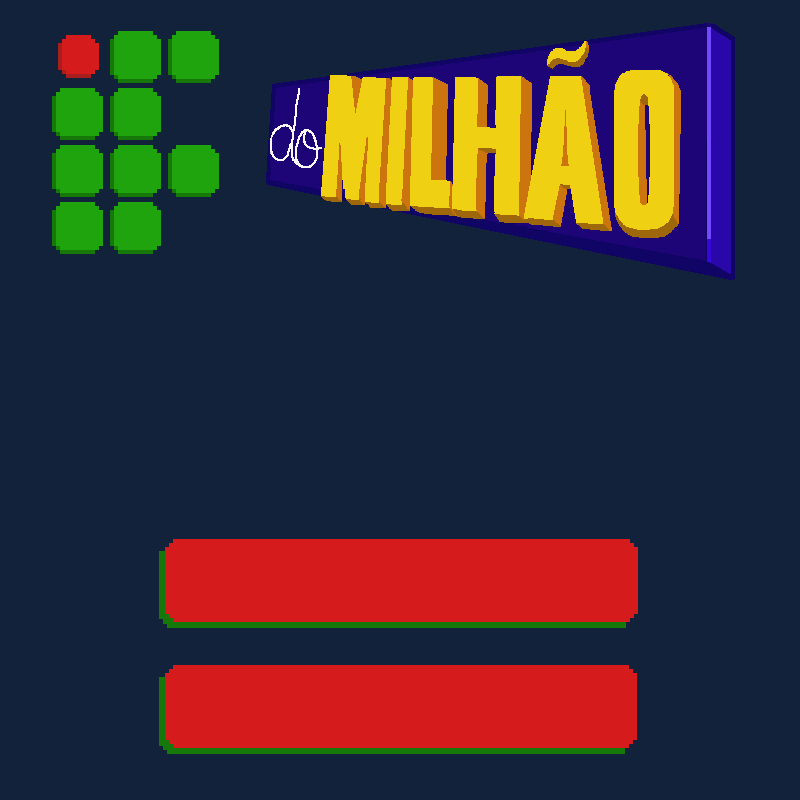
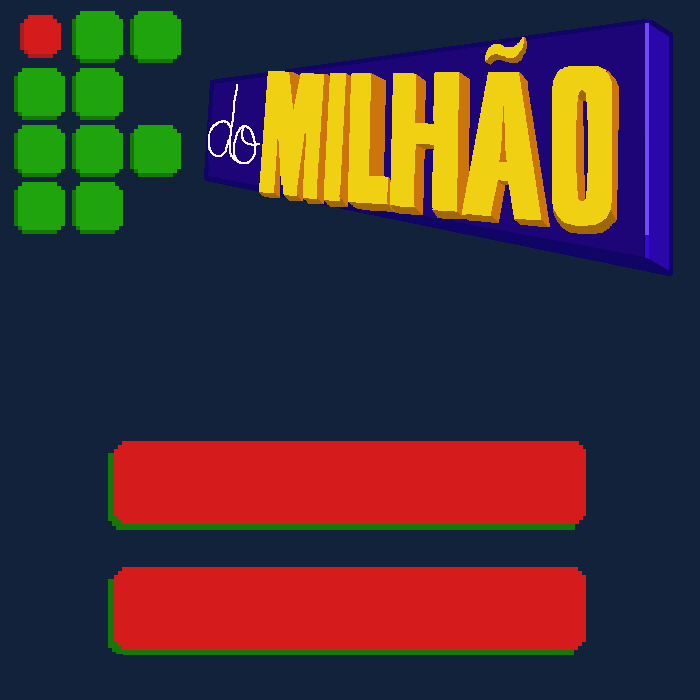
Update

Changed region(s): [[0.0, 0.0, 0.96, 0.39], [0.15, 0.63, 0.84, 0.96]]

diff --git a/ifsc_do_milhao/ifsc_do_milhao.c b/ifsc_do_milhao/ifsc_do_milhao.c
@@ -9,14 +9,17 @@
 #include "biblioteca.h"
 
 //GLOBALS==============================
-const int WIDTH = 800;
-const int HEIGHT = 800;
+const int WIDTH = 700;
+const int HEIGHT = 700;
+const char QUEST[] = "questions.csv";
+const char ALT[] = "alternatives.csv";
+FILE  *fileques;
+FILE  *filealt;
 enum KEYS {SPACE, ESC, NUM1, NUM2, NUM3, P, A};
 enum STATE {MENU, CHOOSE_CHARACTER, CHOOSE_THEMATIC, PLAYING, GAMEOVER, WON};
 
 //prototypes
 void ChooseThematic(int which); //modalidade das perguntas
-int CheckMouse(ALLEGRO_EVENT_QUEUE *event_queue, ALLEGRO_BITMAP *op1, ALLEGRO_BITMAP *op2, ALLEGRO_BITMAP *op3); //checa a posição do mouse sobre as opções na tela e o clique sobre o botão de sair
 
 void GameInitiation(int theme); //iniciação da rodada
 int NewQuestion(int theme); //gera uma pergunta nova
@@ -44,6 +47,9 @@ int main(void) {
 	bool FirstTime = true;
 	bool keys[7] = {false, false, false, false, false, false, false};
 	int state = MENU; //inicia no menu
+	//Variáveis para leitura arquivos csv
+	char titleques[100], QuestID[60], Questions[60];
+	char titlealt[100], AltID[180], Alternatives[180];
 
 	int thematic; //temica escolhida
 	int playr; //jogador escolhido
@@ -64,12 +70,11 @@ int main(void) {
 	ALLEGRO_EVENT_QUEUE *event_queue = NULL;
 	ALLEGRO_TIMER *timer = NULL;
 	ALLEGRO_FONT *font = NULL;
-	ALLEGRO_BITMAP *option1 = NULL;
-	ALLEGRO_BITMAP *option2 = NULL;
-	ALLEGRO_BITMAP *option3 = NULL;
 
 	//Allegro image variables
 	ALLEGRO_BITMAP *menuimage = NULL;
+	ALLEGRO_BITMAP *charactermenu = NULL;
+	ALLEGRO_BITMAP *thematicmenu = NULL;
 
 	//Allegro audio variables
 	ALLEGRO_SAMPLE *game_theme = NULL;
@@ -119,7 +124,6 @@ int main(void) {
     }
 
 	al_init_primitives_addon();
-	al_install_mouse();
 	al_init_font_addon();
 	al_init_ttf_addon();
 	al_init_image_addon();
@@ -127,26 +131,11 @@ int main(void) {
 	// Configura o título da janela
     al_set_window_title(display, "IFSC do Milhão");
 
-	// Torna apto o uso de mouse na aplicação
-    if (!al_install_mouse()){
-        Error("Falha ao inicializar o mouse");
-        al_destroy_display(display);
-        return -1;
-    }
-
-	// Atribui o cursor padrão do sistema para ser usado
-    if (!al_set_system_mouse_cursor(display, ALLEGRO_SYSTEM_MOUSE_CURSOR_DEFAULT)){
-        Error("Falha ao atribuir ponteiro do mouse");
-        al_destroy_display(display);
-        return -1;
-    }
-
 	//Carrega os arquivos utilizados
     menuimage = al_load_bitmap("/Users/pamela_fialho/Documents/GitHub/ifsc_do_milhao/ifsc_do_milhao/menu_image.png"); //carrega a imagem do menu
-    option1 = al_create_bitmap(WIDTH/2, HEIGHT/2+25);	// Alocamos a primeira opção de resposta/escolha
-    option2 = al_create_bitmap(WIDTH/2, HEIGHT/2+150);
-    option3 = al_create_bitmap(WIDTH/2, HEIGHT/2+275);
-	font = al_load_font("/Users/pamela_fialho/Documents/GitHub/Listas_de_Exercicios_Programacao_em_Linguagem_C/atividade_expansao_dos_cometas/arial.ttf", 18, 0);
+	charactermenu = al_load_bitmap("/Users/pamela_fialho/Documents/GitHub/ifsc_do_milhao/ifsc_do_milhao/menu_character.png"); //carrega a imagem do menu
+	thematicmenu = al_load_bitmap("/Users/pamela_fialho/Documents/GitHub/ifsc_do_milhao/ifsc_do_milhao/menu_thematic.png"); //carrega a imagem do menu
+	font = al_load_font("/Users/pamela_fialho/Documents/GitHub/Listas_de_Exercicios_Programacao_em_Linguagem_C/atividade_expansao_dos_cometas/arial.ttf", 20, 0);
 	//Carrega o Audio
 	al_reserve_samples(2);//Reserva 2 samples, mais do que o suficiente para o que vai ser usado
     game_theme = al_load_sample("Audio/pacman_theme.wav");//carrega o tema do pacman
@@ -233,7 +222,6 @@ int main(void) {
 					playr = 2;
 					ChooseCharacter(&player, playr);
 					state = CHOOSE_THEMATIC;
-
 				if(keys[A])
 					playr = 1;
 					ChooseCharacter(&player, playr);
@@ -278,49 +266,34 @@ int main(void) {
 					al_draw_bitmap(menuimage,0,0,0);
 					//textos
 					//tutorial
-					al_draw_text(font, al_map_rgb(0,0,255), WIDTH/2, 350, ALLEGRO_ALIGN_CENTER, "COMO JOGAR:");
-                	al_draw_text(font, al_map_rgb(255,40,40), WIDTH/2, 220, ALLEGRO_ALIGN_CENTER, "Utilize as teclas do seu computador!");
-                	al_draw_text(font, al_map_rgb(255,255,0), WIDTH/2, 280, ALLEGRO_ALIGN_CENTER, "A escolha da resposta é feita com as teclas 1, 2 e 3");
-                	al_draw_text(font, al_map_rgb(255,255,0), WIDTH/2, 305, ALLEGRO_ALIGN_CENTER, "Você poderá escolher o personagem e a temática das perguntas a seguir");
-                	al_draw_text(font, al_map_rgb(0,255,0), WIDTH/2, 340, ALLEGRO_ALIGN_CENTER, "BOA SORTE!");
-					al_draw_text(font, al_map_rgb(255,40,40), WIDTH/2, 220, ALLEGRO_ALIGN_CENTER, "Pressione ESC a qualquer momento para sair do jogo");
-                	al_draw_text(font, al_map_rgb(255,255,0), WIDTH/2, 280, ALLEGRO_ALIGN_CENTER, "Pressione SPACE para começar a jogar");
-                	al_draw_text(font, al_map_rgb(0,0,255), WIDTH/2, 400, ALLEGRO_ALIGN_CENTER, "DESENVOLVIDO POR: Pamela Fialho e Valter da Silva");
-                	al_draw_text(font, al_map_rgb(0,0,255), WIDTH/2, 550, ALLEGRO_ALIGN_CENTER, "ORIENTADO POR: Professor Fernando Santana Pacheco");
-                	al_draw_text(font, al_map_rgb(255,255,255), WIDTH/2, 670, 0, "TURMA 722 (2017/2)");
+					al_draw_text(font, al_map_rgb(255,255,255), WIDTH/2, 290, ALLEGRO_ALIGN_CENTER, "COMO JOGAR:");
+                	al_draw_text(font, al_map_rgb(255,255,255), WIDTH/2, 320, ALLEGRO_ALIGN_CENTER, "Utilize as teclas do seu computador para fazer as escolhas!");
+                	al_draw_text(font, al_map_rgb(255,255,255), WIDTH/2, 340, ALLEGRO_ALIGN_CENTER, "A escolha da resposta é feita com as teclas 1, 2 e 3");
+                	al_draw_text(font, al_map_rgb(255,255,255), WIDTH/2, 360, ALLEGRO_ALIGN_CENTER, "Você poderá escolher o personagem e a temática das perguntas a seguir");
+                	al_draw_text(font, al_map_rgb(255,255,255), WIDTH/2, 390, ALLEGRO_ALIGN_CENTER, "BOA SORTE!");
+					al_draw_text(font, al_map_rgb(255,255,255), WIDTH/2, 470, ALLEGRO_ALIGN_CENTER, "ESC PARA SAIR DO JOGO");
+                	al_draw_text(font, al_map_rgb(255,255,255), WIDTH/2, 597, ALLEGRO_ALIGN_CENTER, "SPACE PARA COMEÇAR A JOGAR");
             	}
 				if (state == CHOOSE_CHARACTER) {
-					//imagem menu de personagem
-					//escolha com o teclado (A - aluno; P - professor)
+					al_draw_bitmap(charactermenu,0,0,0); //imagem menu de personagem
+					al_draw_text(font, al_map_rgb(255,255,255), WIDTH/2, 470, ALLEGRO_ALIGN_CENTER, "A PARA JOGAR COM ALUNO");
+                	al_draw_text(font, al_map_rgb(255,255,255), WIDTH/2, 597, ALLEGRO_ALIGN_CENTER, "P PARA JOGAR COM PROFESSORA");
 				}
 				if (state == CHOOSE_THEMATIC) {
-					//imagem menu de tematica
-					//escolha com o teclado (1 - x; 2 - y; 3 - todas)
+					al_draw_bitmap(menuimage,0,0,0);
 				}
             	else if (state == PLAYING) {
                 	if(!isGameOver) {
-                    // GameIsOver = CheckColision(Player1, Ghosts, pacman_eatghost);
-                    // CheckIfVulnerable(Player1, Ghosts);
-                    // CheckScore(Player1, Ghosts);
-                    // DrawMap(parede, comida, cafe, seta, seta2);
-                    // DrawPacman(Player1, pacmanfinal, curFrame, frameWidth, frameHeight);
-                    // DrawGhosts(Ghosts, enemy1, enemy2, enemy3, enemy4, timer2);
                     // al_draw_textf(font, al_map_rgb(255,255,255), 760, 5, 0, "PONTOS");
                     // al_draw_textf(font, al_map_rgb(255,255,255), 800, 150, 0, "%d", Player1.Score+Player1.GhostScore);
 					}
                 	else {
-                    // al_play_sample(pacman_death,1,0,1,ALLEGRO_PLAYMODE_ONCE, NULL);
-                    // al_stop_sample_instance(pacman_theme_instance);
-                    // finalScore = Player1.Score + Player1.GhostScore;
-                    FirstTime = 0;
+                    FirstTime = true;
                     state = GAMEOVER;
                 	}
             	}
             	else if (state == GAMEOVER) {
-                	// InitPacman(Player1);
-                	// InitGhosts(Ghosts);
-                	// InitPoseMap();
-                	isGameOver = 0;
+                	isGameOver = true;
                 	al_draw_text(font, al_map_rgb(255,0,0), WIDTH / 2, 200, ALLEGRO_ALIGN_CENTER, "DERROTA");
                 	al_draw_text(font, al_map_rgb(255,255,255), WIDTH / 2, 300, ALLEGRO_ALIGN_CENTER, "pressione ENTER para sair");
                 	al_draw_text(font, al_map_rgb(255,255,255), WIDTH / 2, 350, ALLEGRO_ALIGN_CENTER, "ou");
@@ -355,10 +328,9 @@ int main(void) {
 			al_clear_to_color(al_map_rgb(0,0,0));
 		}
 	}
-    al_destroy_bitmap(option1);
-	al_destroy_bitmap(option2);
-	al_destroy_bitmap(option3);
 	al_destroy_bitmap(menuimage);
+	al_destroy_bitmap(charactermenu);
+	al_destroy_bitmap(thematicmenu);
 	al_destroy_event_queue(event_queue);
 	al_destroy_timer(timer);
 	al_destroy_font(font);
@@ -377,7 +349,12 @@ void GameInitiation(int theme) {
 }
 
 void ChooseCharacter (struct Character *player, int which) {
-	//pergunta qual jogador ele quer ser "professor", "aluno" ou "aleatorio"
+	if (which == 1) {
+		player->ID = STUDENT;
+	}
+	if (which == 2) {
+		player->ID = PROFESSOR;
+	}
 }
 
 void Character(struct Character *player, int charc) { //inicia o personagem
@@ -436,72 +413,6 @@ int NewQuestion(int theme) { //implementar logica para nao repetir pergunta
 		quest = 0;
 	}
 	return quest;
-}
-
-int CheckMouse(ALLEGRO_EVENT_QUEUE *event_queue, ALLEGRO_BITMAP *op1, ALLEGRO_BITMAP *op2, ALLEGRO_BITMAP *op3) { //melhorar usando vetores
-	int result;
-	while (!al_is_event_queue_empty(event_queue)){
-        ALLEGRO_EVENT ev;
-        al_wait_for_event(event_queue, &ev);
-		if (ev.mouse.x >= al_get_bitmap_width(op1) - 150 &&
-        ev.mouse.x <= al_get_bitmap_width(op1) + 150 &&
-    	ev.mouse.y >= al_get_bitmap_height(op1) - 50 &&
-    	ev.mouse.y <= al_get_bitmap_height(op1) + 50){
-            // Colorimos o bitmap correspondente ao retângulo que o cursor está por cima
-        	al_set_target_bitmap(op1);
-			al_clear_to_color(al_map_rgb(0, 255, 0));
-    	}	
-		else {
-			al_clear_to_color(al_map_rgb(255, 255, 255));
-		}
-
-		//Verifica se o cursor está sobre a opção 2
-		if (ev.mouse.x >= al_get_bitmap_width(op2) - 150 &&
-        ev.mouse.x <= al_get_bitmap_width(op2) + 150 &&
-        ev.mouse.y >= al_get_bitmap_height(op2) - 50 &&
-        ev.mouse.y <= al_get_bitmap_height(op2) + 50){
-            // Colorimos o bitmap correspondente ao retângulo que o cursor está por cima
-        	al_set_target_bitmap(op2);
-			al_clear_to_color(al_map_rgb(0, 255, 0));
-        }
-		else {
-			al_clear_to_color(al_map_rgb(255, 255, 255));
-		}
-
-		//Verifica se o cursor está sobre a opção 3
-		if (ev.mouse.x >= al_get_bitmap_width(op3) - 150 &&
-        ev.mouse.x <= al_get_bitmap_width(op3) + 150 &&
-        ev.mouse.y >= al_get_bitmap_height(op3) - 50 &&
-        ev.mouse.y <= al_get_bitmap_height(op3) + 50){
-            // Colorimos o bitmap correspondente ao retângulo que o cursor está por cima
-        	al_set_target_bitmap(op3);
-			al_clear_to_color(al_map_rgb(0, 255, 0));
-        }
-		else {
-			al_clear_to_color(al_map_rgb(255, 255, 255));
-		}
-
-		//se o evento foi um clique do mouse
-		if (ev.mouse.x >= al_get_bitmap_width(op1) - 150 &&
-        ev.mouse.x <= al_get_bitmap_width(op1) + 150 &&
-    	ev.mouse.y >= al_get_bitmap_height(op1) - 50 &&
-    	ev.mouse.y <= al_get_bitmap_height(op1) + 50){
-        	result = 1;
-        }
-		else if (ev.mouse.x >= al_get_bitmap_width(op2) - 150 &&
-        ev.mouse.x <= al_get_bitmap_width(op2) + 150 &&
-    	ev.mouse.y >= al_get_bitmap_height(op2) - 50 &&
-    	ev.mouse.y <= al_get_bitmap_height(op2) + 50){
-        	result = 2;
-        }
-		else if (ev.mouse.x >= al_get_bitmap_width(op3) - 150 &&
-        ev.mouse.x <= al_get_bitmap_width(op3) + 150 &&
-    	ev.mouse.y >= al_get_bitmap_height(op3) - 50 &&
-    	ev.mouse.y <= al_get_bitmap_height(op3) + 50){
-        	result = 3;
-        }
-	}
-return result;
 }
 
 bool Answer(int answer, int realanswer, struct Character *player) {

diff --git a/ifsc_do_milhao/biblioteca.h b/ifsc_do_milhao/biblioteca.h
@@ -1,5 +1,5 @@
 //Object IDS
-enum IDS{STUDENT, PROFESSOR_X, PROFESSOR_Y, INTERVIEWER_VALTER, INTERVIEWER_PAMELA};
+enum IDS{STUDENT, PROFESSOR, PROFESSOR_X, PROFESSOR_Y, INTERVIEWER_VALTER, INTERVIEWER_PAMELA};
 
 //Our Player
 struct Character {
